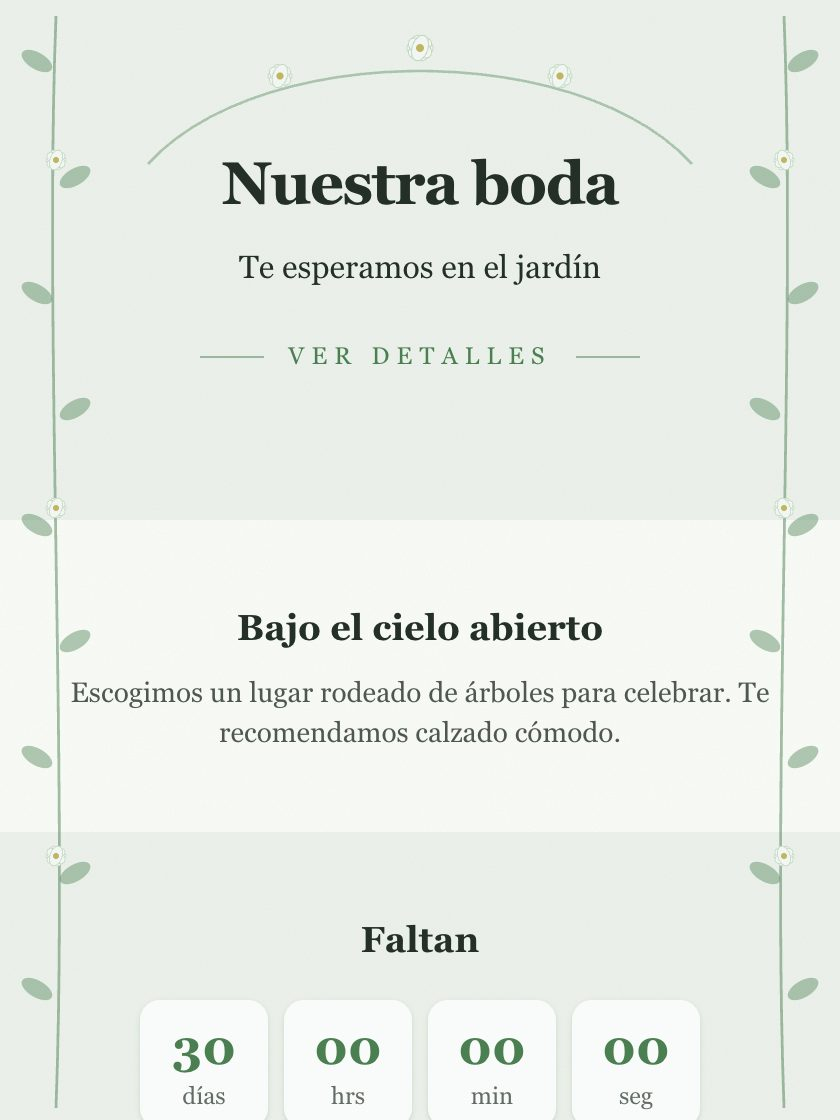
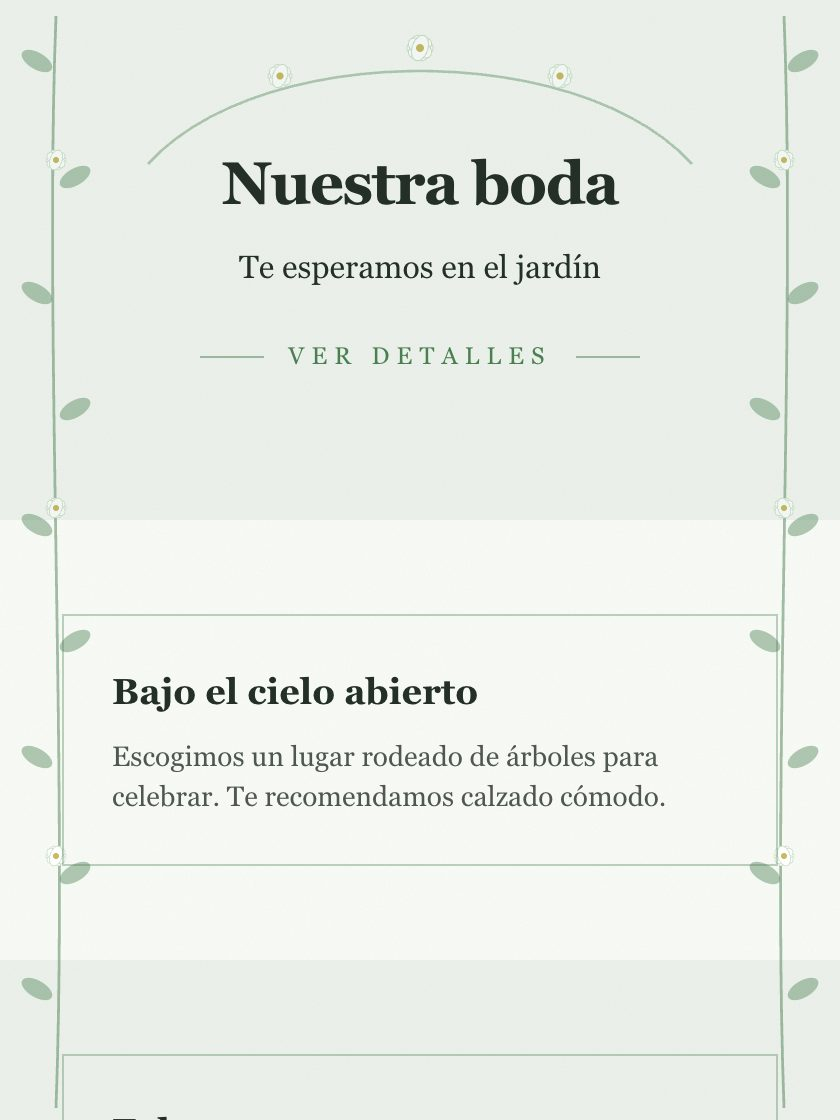
chore(catalogo): miniaturas de las 13 bodas tras aplicar la 0042
Verificado contra la BD: 13 combinaciones de (variant, frame, align), 0
repetidas, y `split` solo donde hay foto.

Once funcionan. DOS NO: `boda-destino` (editorial) y `boda-en-la-playa`
(offset), las dos sin foto de portada, pierden la jerarquia — el titulo queda
pequeno y arriba a la izquierda y se lee como el encabezado de un documento, no
como una portada. Se corrigen en la 0043.

REVISION_MINIATURAS -> 202609091913.

diff --git a/src/lib/invitations/template-preview.ts b/src/lib/invitations/template-preview.ts
@@ -67,4 +67,4 @@ export const ESCALA_CAPTURA = 2;
  * optimizador y la del navegador, y evita tener que renombrar 50 archivos o
  * volver a escribir 50 URLs en la BD en cada regeneración.
  */
-export const REVISION_MINIATURAS = "202609091903";
+export const REVISION_MINIATURAS = "202609091913";
